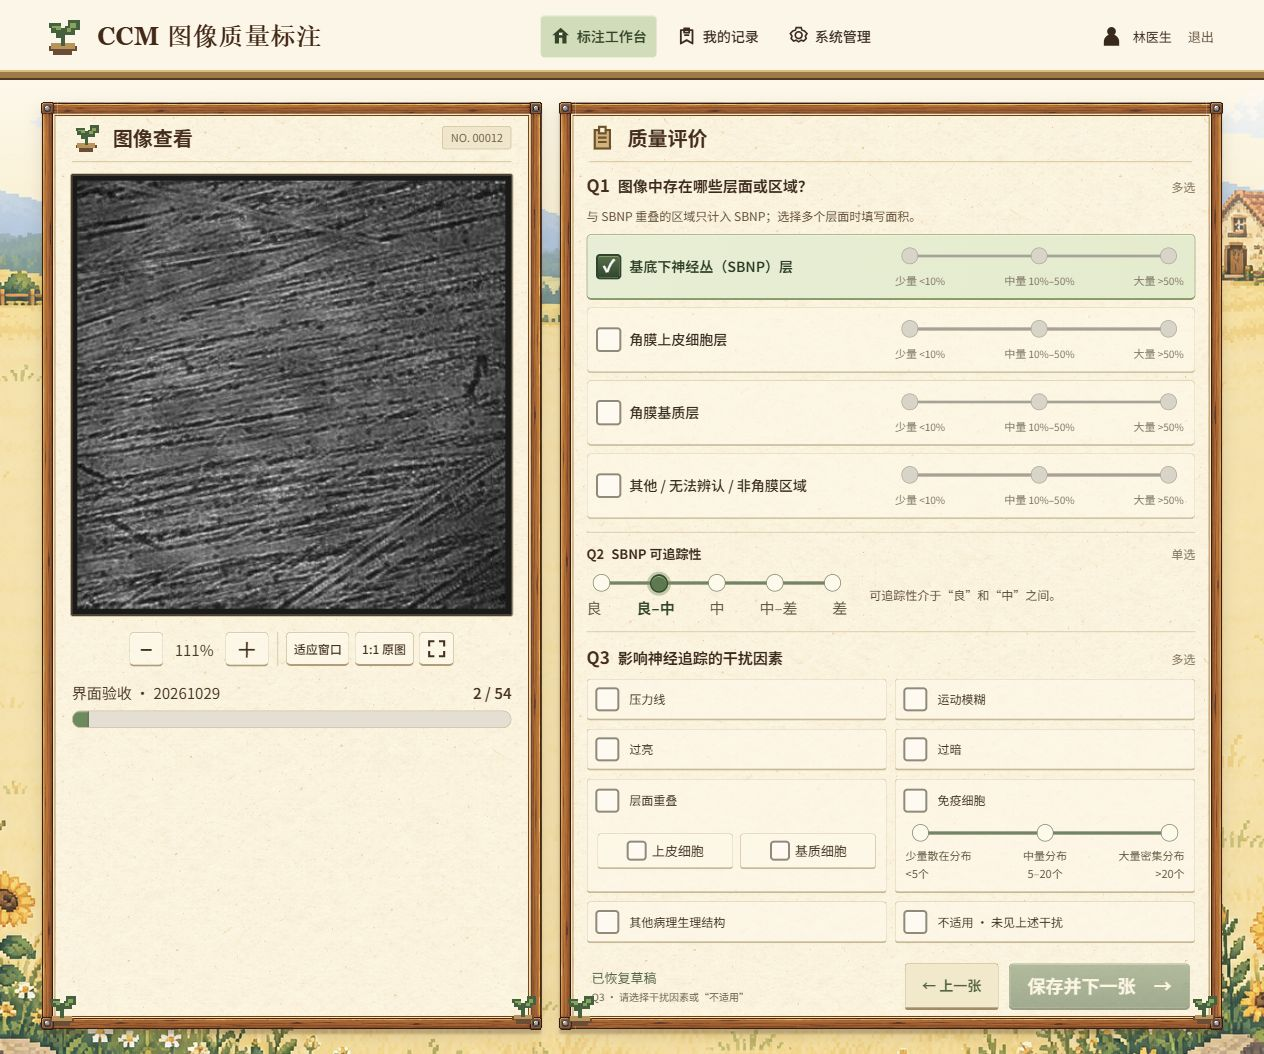
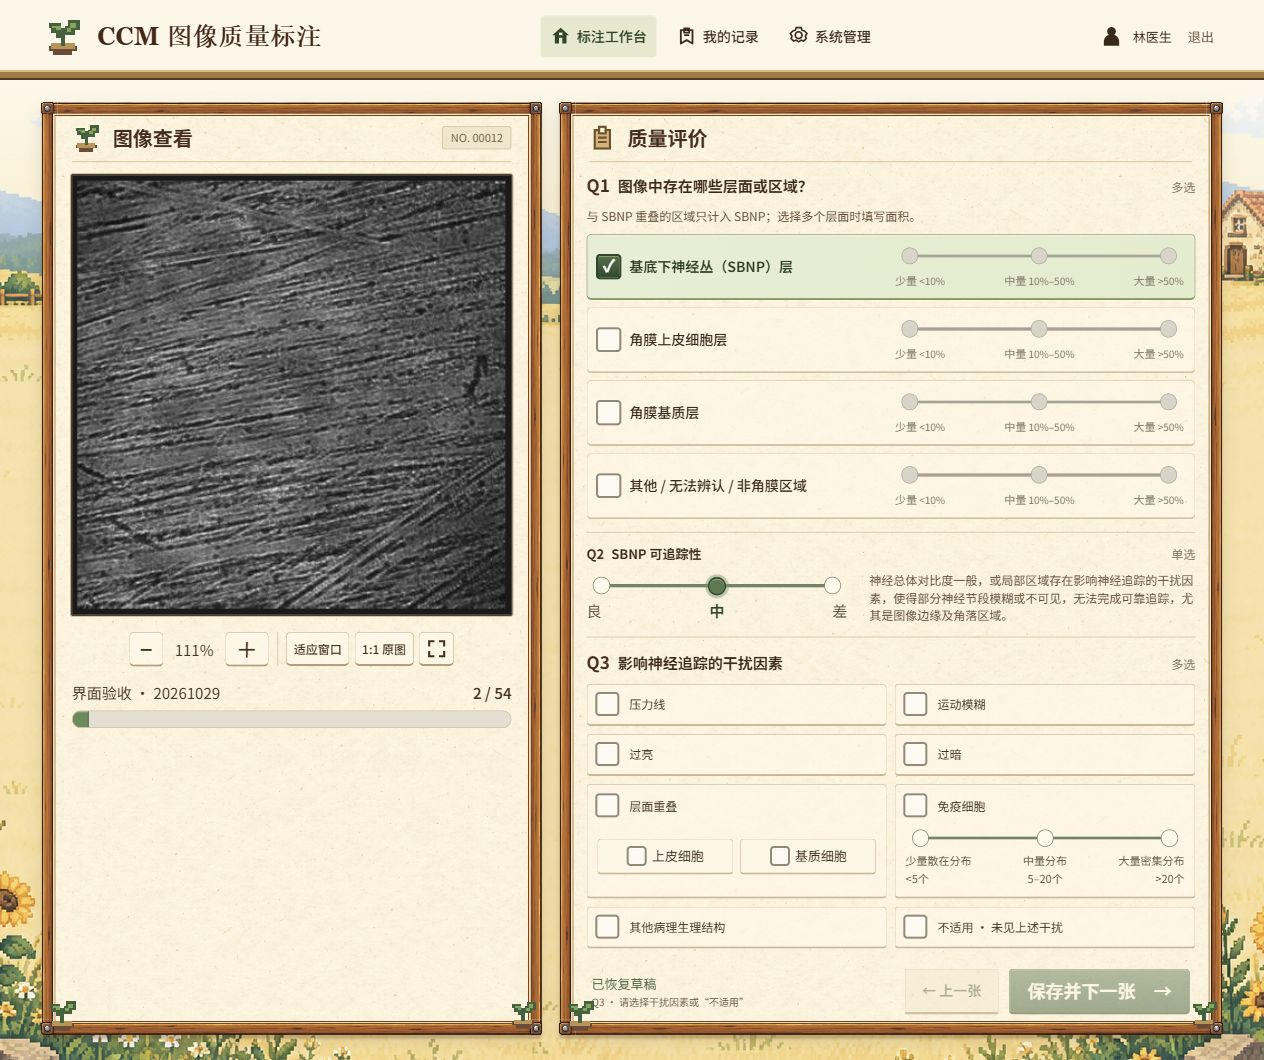
Restore three-grade Q2 traceability per updated manual

diff --git a/static/index.html b/static/index.html
@@ -4,7 +4,7 @@
   <meta charset="UTF-8"><meta name="viewport" content="width=device-width,initial-scale=1">
   <meta name="theme-color" content="#48664b"><title>CCM 图像质量标注</title>
   <link rel="icon" href="/static/sprout.svg" type="image/svg+xml"><link rel="stylesheet" href="/static/style.css"><link rel="stylesheet" href="/static/theme.css?v=20261029-previous1">
-  <script src="/static/annotation-form.js?v=20261029-r4" defer></script><script src="/static/app.js?v=20261029-previous1" defer></script>
+  <script src="/static/annotation-form.js?v=20261029-r5" defer></script><script src="/static/app.js?v=20261029-previous1" defer></script>
 </head>
 <body>
   <div class="landscape" aria-hidden="true"><i class="cloud one"></i><i class="cloud two"></i><div class="hills"></div><div class="field"></div></div>

diff --git a/static/annotation-form.js b/static/annotation-form.js
@@ -41,7 +41,7 @@
     if(!keys.length) return 'Q1 · 请至少选择一个层面或区域';
     if(keys.length>1 && Object.values(labels.q1).some(v=>!v)) return 'Q1 · 请为每个所选层面指定面积';
     if(!applicable(labels)) return '';
-    if(!['a','ab','b','bc','c'].includes(labels.q2)) return 'Q2 · 请选择良、良–中、中、中–差或差';
+    if(!['a','b','c'].includes(labels.q2)) return 'Q2 · 请选择良、中或差';
     if(!labels.q3?.length) return 'Q3 · 请选择干扰因素或“不适用”';
     if(labels.q3.includes('e') && !labels.q3_details.e?.length) return 'Q3 · 请选择重叠的细胞类型，可多选';
     if(labels.q3.includes('f') && !labels.q3_details.f) return 'Q3 · 请选择免疫细胞数量';

diff --git a/tests/test_app.py b/tests/test_app.py
@@ -128,12 +128,12 @@ def test_previous_navigation_preserves_order_drafts_and_audit(env):
     assert submit(client,first).status_code==200
     second=next_task(client)
     assert second['previous_id']==first['id'] and second['next_id']==ids[2]
-    partial={'q1':{'a':None},'q2':'bc','q3':[],'q3_details':{}}
+    partial={'q1':{'a':None},'q2':'c','q3':[],'q3_details':{}}
     assert client.put(f"/api/tasks/{second['id']}/draft",json={
         'labels':partial,'revision':second['revision'],'manual_version':MANUAL_VERSION}).status_code==200
     previous=client.get(f"/api/tasks/{second['previous_id']}").json()
     assert previous['submitted'] and previous['labels']==VALID
-    assert submit(client,previous,{**VALID,'q2':'ab'}).status_code==200
+    assert submit(client,previous,{**VALID,'q2':'b'}).status_code==200
     restored=client.get(f"/api/tasks/{previous['next_id']}").json()
     assert restored['id']==second['id'] and restored['has_draft'] and restored['labels']==partial
     assert client.get('/api/progress').json()['completed']==1
@@ -327,14 +327,24 @@ def test_single_layer_has_no_area(layer):
         assert labels['q2']=='n' and labels['q3'] is None
 
 
-@pytest.mark.parametrize('grade', ['a','ab','b','bc','c'])
-def test_q2_five_grades(env, grade):
+@pytest.mark.parametrize('grade', ['a','b','c'])
+def test_q2_three_grades(env, grade):
     assert normalize({**VALID,'q2':grade},True)['q2']==grade
     did=activate(env); client=env['clients']['alice']; task=next_task(client)
     assert submit(client,task,{**VALID,'q2':grade}).status_code==200
     assert client.get(f"/api/tasks/{task['id']}").json()['labels']['q2']==grade
     record=json.loads(env['clients']['admin'].get(f'/api/admin/export?dataset_id={did}&format=jsonl').text)
     assert record['q2']==grade and record['manual_version']==MANUAL_VERSION
+
+
+@pytest.mark.parametrize('grade', ['ab','bc'])
+def test_q2_removed_intermediate_grades_cannot_be_saved(env, grade):
+    activate(env); client=env['clients']['alice']; task=next_task(client)
+    body={'labels':{**VALID,'q2':grade},'revision':task['revision'],'manual_version':MANUAL_VERSION}
+    assert client.put(f"/api/tasks/{task['id']}/draft",json=body).status_code==422
+    assert client.post(f"/api/tasks/{task['id']}/submit",json=body).status_code==422
+    restored=client.get(f"/api/tasks/{task['id']}").json()
+    assert restored['revision']==task['revision'] and not restored['has_draft'] and not restored['submitted']
 
 
 @pytest.mark.parametrize('immune', ['f1','f2','f3'])
@@ -354,8 +364,8 @@ def test_rules_and_removed_manual_routes(env):
     client=env['clients']['alice']
     rules=client.get('/api/rules').json()
     assert rules['version']==MANUAL_VERSION and 'q4' not in rules
-    assert rules['version']=='20261029-r4'
-    assert [(o['id'],o['name']) for o in rules['q2']]==[('a','良'),('ab','良–中'),('b','中'),('bc','中–差'),('c','差')]
+    assert rules['version']=='20261029-r5'
+    assert [(o['id'],o['name']) for o in rules['q2']]==[('a','良'),('b','中'),('c','差')]
     immune=next(o for o in rules['q3'] if o['id']=='f')
     assert [(o['id'],o['detail']) for o in immune['options']]==[('f1','<5个'),('f2','5–20个'),('f3','>20个')]
     assert immune['multiple'] is False
@@ -367,17 +377,17 @@ def test_rules_and_removed_manual_routes(env):
     assert client.get('/api/health').json()['manual_version']==MANUAL_VERSION
 
 
-@pytest.mark.parametrize('draft_version', [None,'20261029','20261029-r2','20261029-r3'])
+@pytest.mark.parametrize('draft_version', [None,'20261029','20261029-r2','20261029-r3','20261029-r4'])
 def test_old_drafts_are_not_reinterpreted_and_old_clients_cannot_write(env, draft_version):
     activate(env); client=env['clients']['alice']; task=next_task(client)
     old={'q1':{'a':'k'},'q2':'c','q3':'b','q4':['n']} if draft_version is None else {
-        'q1':{'a':None},'q2':'b','q3':['f'],'q3_details':{'f':'f2'}}
+        'q1':{'a':None},'q2':'ab' if draft_version=='20261029-r4' else 'b','q3':['f'],'q3_details':{'f':'f2'}}
     with connect(env['db']) as db:
         db.execute('UPDATE assignments SET draft=?,draft_version=?,revision=7 WHERE id=?',(json.dumps(old),draft_version,task['id']))
     current=next_task(client)
     assert current['draft_reset'] and not current['has_draft'] and current['revision']==7
     assert current['labels']=={'q1':{},'q2':None,'q3':[],'q3_details':{}}
-    for version in (None,'20261027','20261029','20261029-r2','20261029-r3'):
+    for version in (None,'20261027','20261029','20261029-r2','20261029-r3','20261029-r4'):
         body={'labels':VALID,'revision':7,'manual_version':version}
         assert client.put(f"/api/tasks/{task['id']}/draft",json=body).status_code==409
         assert client.post(f"/api/tasks/{task['id']}/submit",json=body).status_code==409
@@ -404,6 +414,10 @@ def test_legacy_schema_adds_draft_version_without_losing_accounts(tmp_path, hash
      {'q2':'b','q3':'e;f','q3_overlap':'e1;e2','q3_immune':'f2'}),
     ('20261029-r3',{'q1':{'a':None},'q2':'b','q3':['e','f'],'q3_details':{'e':['e1','e2'],'f':'f3'}},
      {'q2':'b','q3':'e;f','q3_overlap':'e1;e2','q3_immune':'f3'}),
+    ('20261029-r4',{'q1':{'a':None},'q2':'ab','q3':['e','f'],'q3_details':{'e':['e1','e2'],'f':'f3'}},
+     {'q2':'ab','q3':'e;f','q3_overlap':'e1;e2','q3_immune':'f3'}),
+    ('20261029-r4',{'q1':{'a':None},'q2':'bc','q3':['n'],'q3_details':{}},
+     {'q2':'bc','q3':'n','q3_overlap':'','q3_immune':''}),
 ])
 def test_legacy_formal_record_is_preserved_for_export(env, version, old, expected):
     did=activate(env); client=env['clients']['alice']; task=next_task(client)

diff --git a/app/rules.py b/app/rules.py
@@ -1,5 +1,5 @@
 """Annotation rules from cookbook/操作手册20261029.md (three-question revision)."""
-MANUAL_VERSION = "20261029-r4"
+MANUAL_VERSION = "20261029-r5"
 LAYERS = [
     {"id": "a", "name": "基底下神经丛（SBNP）层", "hint": "高反光、细长的线状或串珠状神经，可有弯曲、分叉及连接。同一区域出现 SBNP 与相邻层面重叠时，只计为 SBNP。"},
     {"id": "b", "name": "角膜上皮细胞层", "hint": "密集排列的多边形细胞，呈网格状或铺路石样；与 SBNP 重叠的区域不重复计入。"},
@@ -9,9 +9,7 @@ LAYERS = [
 AREAS = [{"id": "i", "name": "少量", "detail": "<10%"}, {"id": "j", "name": "中量", "detail": "10%–50%"}, {"id": "k", "name": "大量", "detail": ">50%"}]
 Q2 = [
     {"id": "a", "name": "良", "hint": "神经总体对比度良好，大多数神经可被可靠追踪。"},
-    {"id": "ab", "name": "良–中", "hint": "可追踪性介于“良”和“中”之间。"},
     {"id": "b", "name": "中", "hint": "神经总体对比度一般，或局部区域存在影响神经追踪的干扰因素，使得部分神经节段模糊或不可见，无法完成可靠追踪，尤其是图像边缘及角落区域。"},
-    {"id": "bc", "name": "中–差", "hint": "可追踪性介于“中”和“差”之间。"},
     {"id": "c", "name": "差", "hint": "神经总体对比度较差，或广泛区域存在影响神经追踪的干扰因素，大多数神经模糊或不可见，无法完成可靠追踪。"},
 ]
 Q3 = [
@@ -40,8 +38,8 @@ def normalize(payload, final=False):
         raise ValueError("选择多个层面时，请为每个层面选择面积")
     result = {"q1": {k: v if len(q1) > 1 else None for k, v in sorted(q1.items())}}
     q2, q3, details = payload.get("q2"), payload.get("q3"), payload.get("q3_details", {})
-    if q2 not in (None, "a", "ab", "b", "bc", "c", "n"):
-        raise ValueError("Q2 请选择良、良–中、中、中–差或差")
+    if q2 not in (None, "a", "b", "c", "n"):
+        raise ValueError("Q2 请选择良、中或差")
     if q3 is not None and (not isinstance(q3, list) or any(x not in ("a", "b", "c", "d", "e", "f", "g", "n") for x in q3) or len(q3) != len(set(q3))):
         raise ValueError("Q3 干扰因素选项无效")
     if not isinstance(details, dict) or set(details) - {"e", "f"}:

diff --git a/README.md b/README.md
@@ -1,6 +1,6 @@
 # CCM 图像质量标注
 
-根据《CCM 图像质量标注操作手册 20261029》最新修订实现的自托管 Web 标注应用，规则版本为 `20261029-r4`。每位标注员独立标注全部图像，首次领取任务时生成并保存各自的随机顺序，重新登录后继续未完成的图像。
+根据《CCM 图像质量标注操作手册 20261029》最新修订实现的自托管 Web 标注应用，规则版本为 `20261029-r5`。每位标注员独立标注全部图像，首次领取任务时生成并保存各自的随机顺序，重新登录后继续未完成的图像。
 
 界面先使用内置 imagegen 生成参考稿，再对照实现：生成的木纹边框与四角铆钉、细纹理纸面、田园像素背景、带图标的导航和分档滑杆。内置 Noto Sans SC 中文字体，让不同设备显示一致。医学图像保持原始灰度与亮度。
 
@@ -12,9 +12,9 @@
 - 管理员创建标注员、停用/启用账号、重置密码、查看累计提交量。
 - 独立随机任务顺序、服务器草稿自动保存、刷新恢复、提交后自动下一张。
 - “上一张”按本账号在当前图像集的分配顺序回看，先保存当前草稿；保存失败则停留当前图像。回看后“保存并下一张”沿原顺序前进；第一张禁用返回，全部完成后可返回最后一张。仅在同一账号、同一图像集内导航，跳过不能用当前规则编辑的旧版正式记录。
-- 左侧原图缩放/平移/全屏；右侧 Q1 四行层面选项、Q2 五档滑杆、Q3 双列干扰因素。Q3 子选项常驻同一选项卡内部：层面重叠为两个多选控件，免疫细胞为三档滑杆，不再展开额外区域。直接操作子选项会自动选中对应干扰因素。
+- 左侧原图缩放/平移/全屏；右侧 Q1 四行层面选项、Q2 三档滑杆、Q3 双列干扰因素。Q3 子选项常驻同一选项卡内部：层面重叠为两个多选控件，免疫细胞为三档滑杆，不再展开额外区域。直接操作子选项会自动选中对应干扰因素。
 - **Q1 只有 a（SBNP）时 Q2/Q3 可用**；包含 b/c/d 时跳过两题，保存 `q2="n"`、`q3=null`。切回纯 SBNP 后必须重新填写。SBNP 与相邻层面重叠的区域在 Q1 中只计为 SBNP，重叠类型在 Q3 中记录。
-- Q1 仅多选时要求每个层面的面积；单选面积存为 `null`，不会自动推定为“大量”。Q2 评价 SBNP 可追踪性，分为良／良–中／中／中–差／差，其中两档为相邻等级的中间选项。Q3 的 `n` 与其他干扰互斥；层面重叠可同时选择上皮和基质，免疫细胞数量必须在 `<5`、`5–20`、`>20` 中单选，其中中量包含 5 个和 20 个。
+- Q1 仅多选时要求每个层面的面积；单选面积存为 `null`，不会自动推定为“大量”。Q2 评价 SBNP 可追踪性，分为良／中／差。Q3 的 `n` 与其他干扰互斥；层面重叠可同时选择上皮和基质，免疫细胞数量必须在 `<5`、`5–20`、`>20` 中单选，其中中量包含 5 个和 20 个。
 - 最近 100 条正式记录可回看修改；修改前后的正式版本均保留。
 - 管理员导出 CSV、JSONL 与修改历史；包含文件相对路径、SHA-256、出示顺序、手册版本、时间。
 - 不提供操作手册浏览功能；没有手册弹窗、手册 API 或示例图接口。
@@ -171,13 +171,13 @@ python -m uvicorn app.main:app --host 127.0.0.1 --port 8000
 | `q1_layers` | 已选择的层面代码，以分号分隔：a SBNP、b 上皮、c 基质、d 其他区域 |
 | `q1_a` / `q1_b` / `q1_c` / `q1_d` | 多选层面的面积代码；单选和未选择均为空，是否选择以 `q1_layers` 为准 |
 | `i / j / k` | 少量 `<10%` / 中量 `10%–50%` / 大量 `>50%` |
-| `q2` | SBNP 可追踪性：a 良、ab 良–中、b 中、bc 中–差、c 差、n 跳过；顺序为 a → ab → b → bc → c |
+| `q2` | SBNP 可追踪性：a 良、b 中、c 差、n 跳过；顺序为 a → b → c |
 | `q3` | a 压力线、b 运动模糊、c 过亮、d 过暗、e 层面重叠、f 免疫细胞、g 其他病理生理结构、n 未见上述干扰；多选以分号分隔，跳过为空 |
 | `q3_overlap` | e1 上皮细胞、e2 基质细胞；允许 `e1;e2` |
 | `q3_immune` | f1 少量散在分布 `<5个`、f2 中量分布 `5–20个`（含端点）、f3 大量密集分布 `>20个` |
 | `presentation_order` | 本账号首次分配时的出示顺序编号 |
 | `sha256` | 导入时的图像文件哈希 |
-| `manual_version` | 标注规则版本，本版为 `20261029-r4`，不是手册浏览功能 |
+| `manual_version` | 标注规则版本，本版为 `20261029-r5`，不是手册浏览功能 |
 
 接口保存结构示例（纯 SBNP、两类细胞重叠和大量免疫细胞）：
 
@@ -185,7 +185,7 @@ python -m uvicorn app.main:app --host 127.0.0.1 --port 8000
 {"q1":{"a":null},"q2":"b","q3":["e","f"],"q3_details":{"e":["e1","e2"],"f":"f3"}}
 ```
 
-草稿与提交请求另需携带当前 `revision` 和 `manual_version: "20261029-r4"`。非纯 SBNP 图像保存 `q3=null`；这与纯 SBNP 下选择 `q3=["n"]`（已评价且未见干扰）含义不同。
+草稿与提交请求另需携带当前 `revision` 和 `manual_version: "20261029-r5"`。非纯 SBNP 图像保存 `q3=null`；这与纯 SBNP 下选择 `q3=["n"]`（已评价且未见干扰）含义不同。
 
 所有导出时间均为 UTC。CSV 带 UTF-8 BOM，便于 Excel 打开。普通导出只包含最新正式提交，不包含草稿；「修改记录」导出全部正式版本。跨图像集时 `presentation_order` 可继续递增。
 
@@ -193,9 +193,9 @@ python -m uvicorn app.main:app --host 127.0.0.1 --port 8000
 
 ## 从旧版升级
 
-本次同日修订以 `20261029-r4` 区分：Q2 在原有良／中／差之间增加“良–中”和“中–差”，代码分别为 `ab`、`bc`，原有 `a/b/c` 的含义不变；“中”的说明补充关注图像边缘及角落区域。Q3 仍为三档免疫细胞数量。账号、图像集与任务随机顺序保留；旧草稿不会作为新版答案恢复，页面提示重新填写当前图像。旧页面提交会被版本检查拒绝，需刷新浏览器。从四题版升级时，数据库会自动添加草稿版本字段，无需删除数据卷。
+本次同日修订以 `20261029-r5` 区分：Q2 移除“良–中”和“中–差”，恢复良／中／差三档，代码为 `a/b/c`，保留“中”对图像边缘及角落区域的说明。新版草稿和提交不再接受 `ab/bc`，不会将旧中间档自动转换为三档答案。Q3 仍为三档免疫细胞数量。账号、图像集与任务随机顺序保留；旧草稿不会作为新版答案恢复，页面提示重新填写当前图像。旧页面提交会被版本检查拒绝，需刷新浏览器。从四题版升级时，数据库会自动添加草稿版本字段，无需删除数据卷。
 
-旧提交和修改历史会保留，并可导出；不允许用新版规则编辑，也不会把旧答案自动重算为新版答案。分析导出数据时必须按 `manual_version` 区分：`20261029` 的 Q2 为优／良／差、免疫细胞为 `<10` / `≥10`；`20261029-r2` 的 Q2 为良／中／差、免疫细胞为 `<20` / `≥20`；`20261029-r3` 的 Q2 不变、免疫细胞为 `<5` / `5–20` / `>20`。三题版的 `q3_overlap` 与 `q3_immune` 均保留，旧 f2 不会自动映射成新版中量或大量。更早的 `20261027` 四题版导出可能包含旧 `q4` 列。
+旧提交和修改历史会保留，并可导出；不允许用新版规则编辑，也不会把旧答案自动重算为新版答案。分析导出数据时必须按 `manual_version` 区分：`20261029` 的 Q2 为优／良／差、免疫细胞为 `<10` / `≥10`；`20261029-r2` 的 Q2 为良／中／差、免疫细胞为 `<20` / `≥20`；`20261029-r3` 的 Q2 不变、免疫细胞为 `<5` / `5–20` / `>20`；`20261029-r4` 的 Q2 为五档，历史 `ab/bc` 原样保留；`20261029-r5` 恢复 Q2 三档。三题版的 `q3_overlap` 与 `q3_immune` 均保留，旧 f2 不会自动映射成新版中量或大量。更早的 `20261027` 四题版导出可能包含旧 `q4` 列。
 
 在服务器项目目录中，先按下方“备份与恢复”完成备份，再执行：
 
@@ -205,7 +205,7 @@ docker compose up -d --build web
 curl http://127.0.0.1:8000/api/health
 ```
 
-健康检查应显示 `manual_version` 为 `20261029-r4`；如已设置其他 `CCM_PORT`，同步修改检查端口。
+健康检查应显示 `manual_version` 为 `20261029-r5`；如已设置其他 `CCM_PORT`，同步修改检查端口。
 
 ## 备份与恢复
 

diff --git a/design/VALIDATION.md b/design/VALIDATION.md
@@ -2,6 +2,14 @@
 
 日期：2026-10-29。正式标注数据未参与验收，浏览器使用本机临时数据库与测试图像。
 
+## 移除 Q2 中间档 20261029-r5
+
+按最新手册恢复 Q2 良／中／差三档，前后端不再接受 `ab/bc`。保留“中”的边缘及角落区域说明、Q3 卡片内子选项和上一张功能。旧版草稿提示重新填写，旧正式记录及修改历史保持原始中间档值供导出，不自动归入三档。
+
+本地 **10 项相关后端用例通过，52 项未重复执行**，覆盖三档提交/回读/导出、中间档写入拒绝、r4 草稿和客户端隔离、r4 中间档正式记录及历史导出、上一张草稿恢复；Q2 前端校验 **1 项通过**，语法检查通过。
+
+浏览器确认仅显示“良／中／差”三个档位、旧草稿提示正确、新三档草稿可保存恢复，更新 `implemented-desktop.png`。未重复移动端验收，`implemented-mobile.png` 仍为上一张功能发布时的五档截图。
+
 ## 上一张导航
 
 在提交按钮旁增加“上一张”：先保存当前草稿，再按本账号、同一图像集的分配顺序载入前一张；无前一张时禁用。回看后提交沿原顺序前进，保留修改历史；完成页面也可返回最后一张。旧版正式记录不纳入可编辑的前后导航，规则版本仍为 `20261029-r4`。
